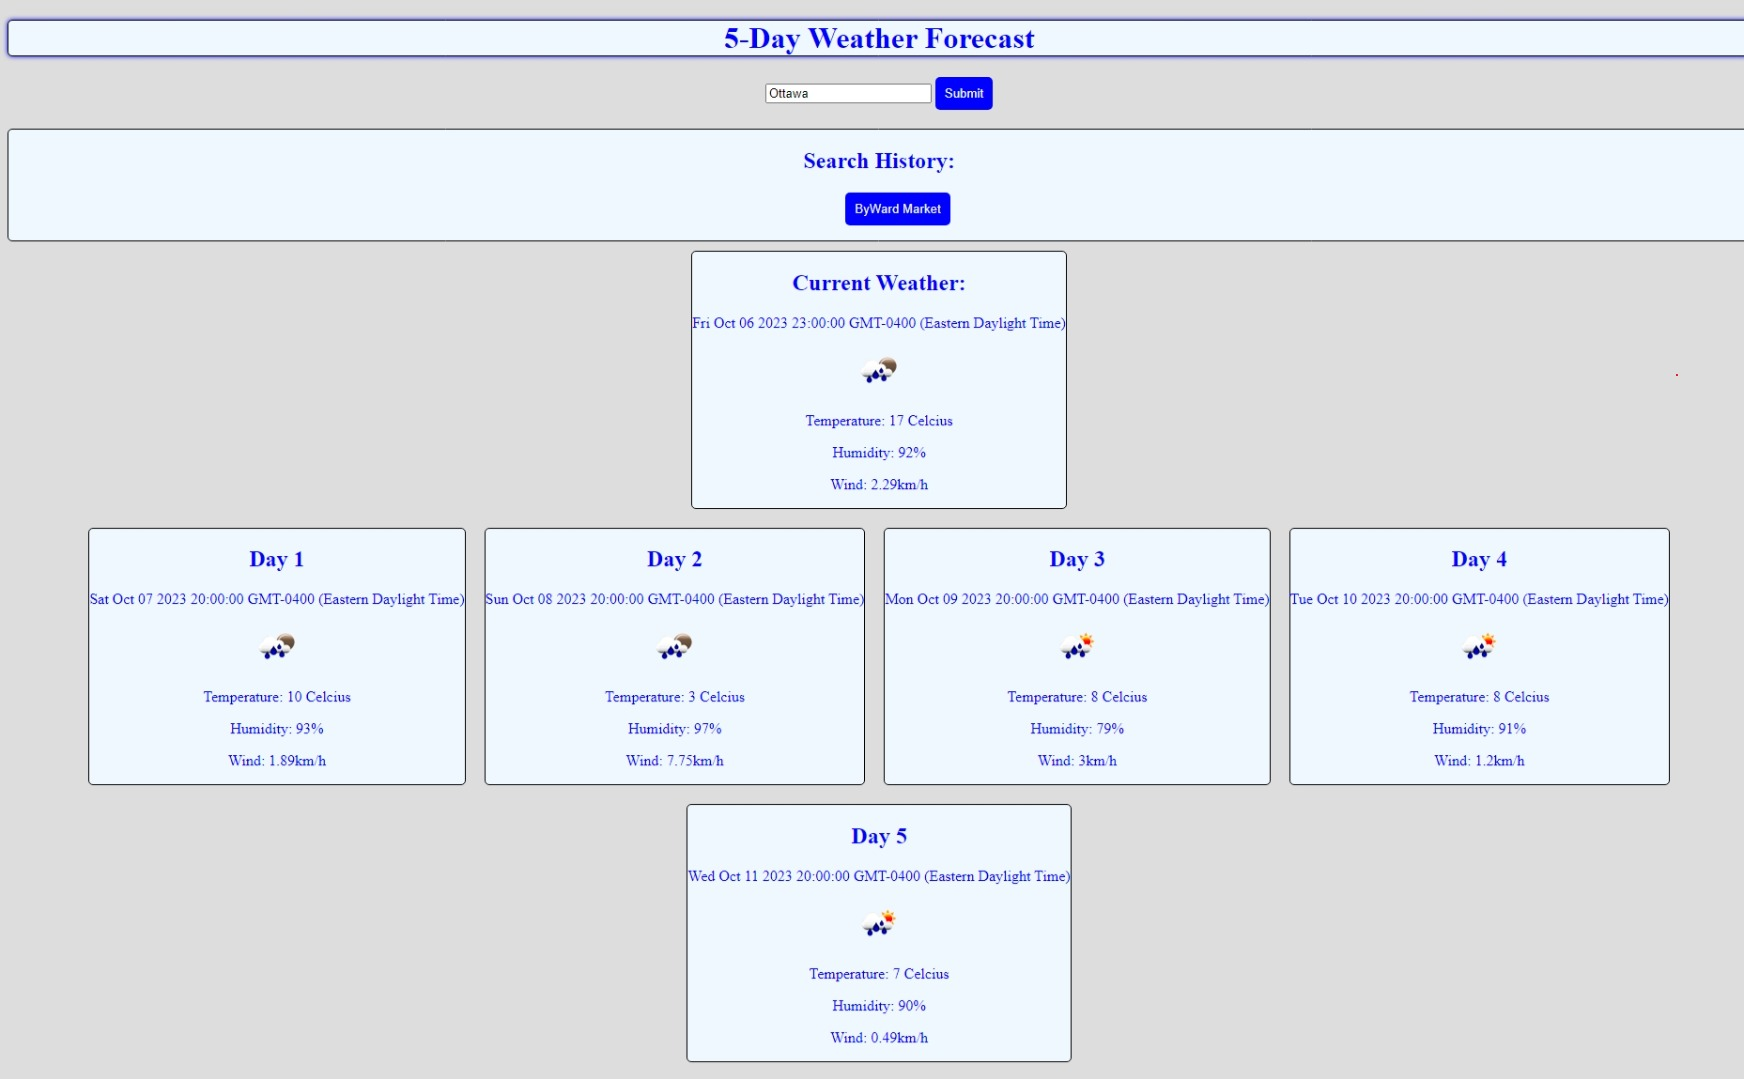
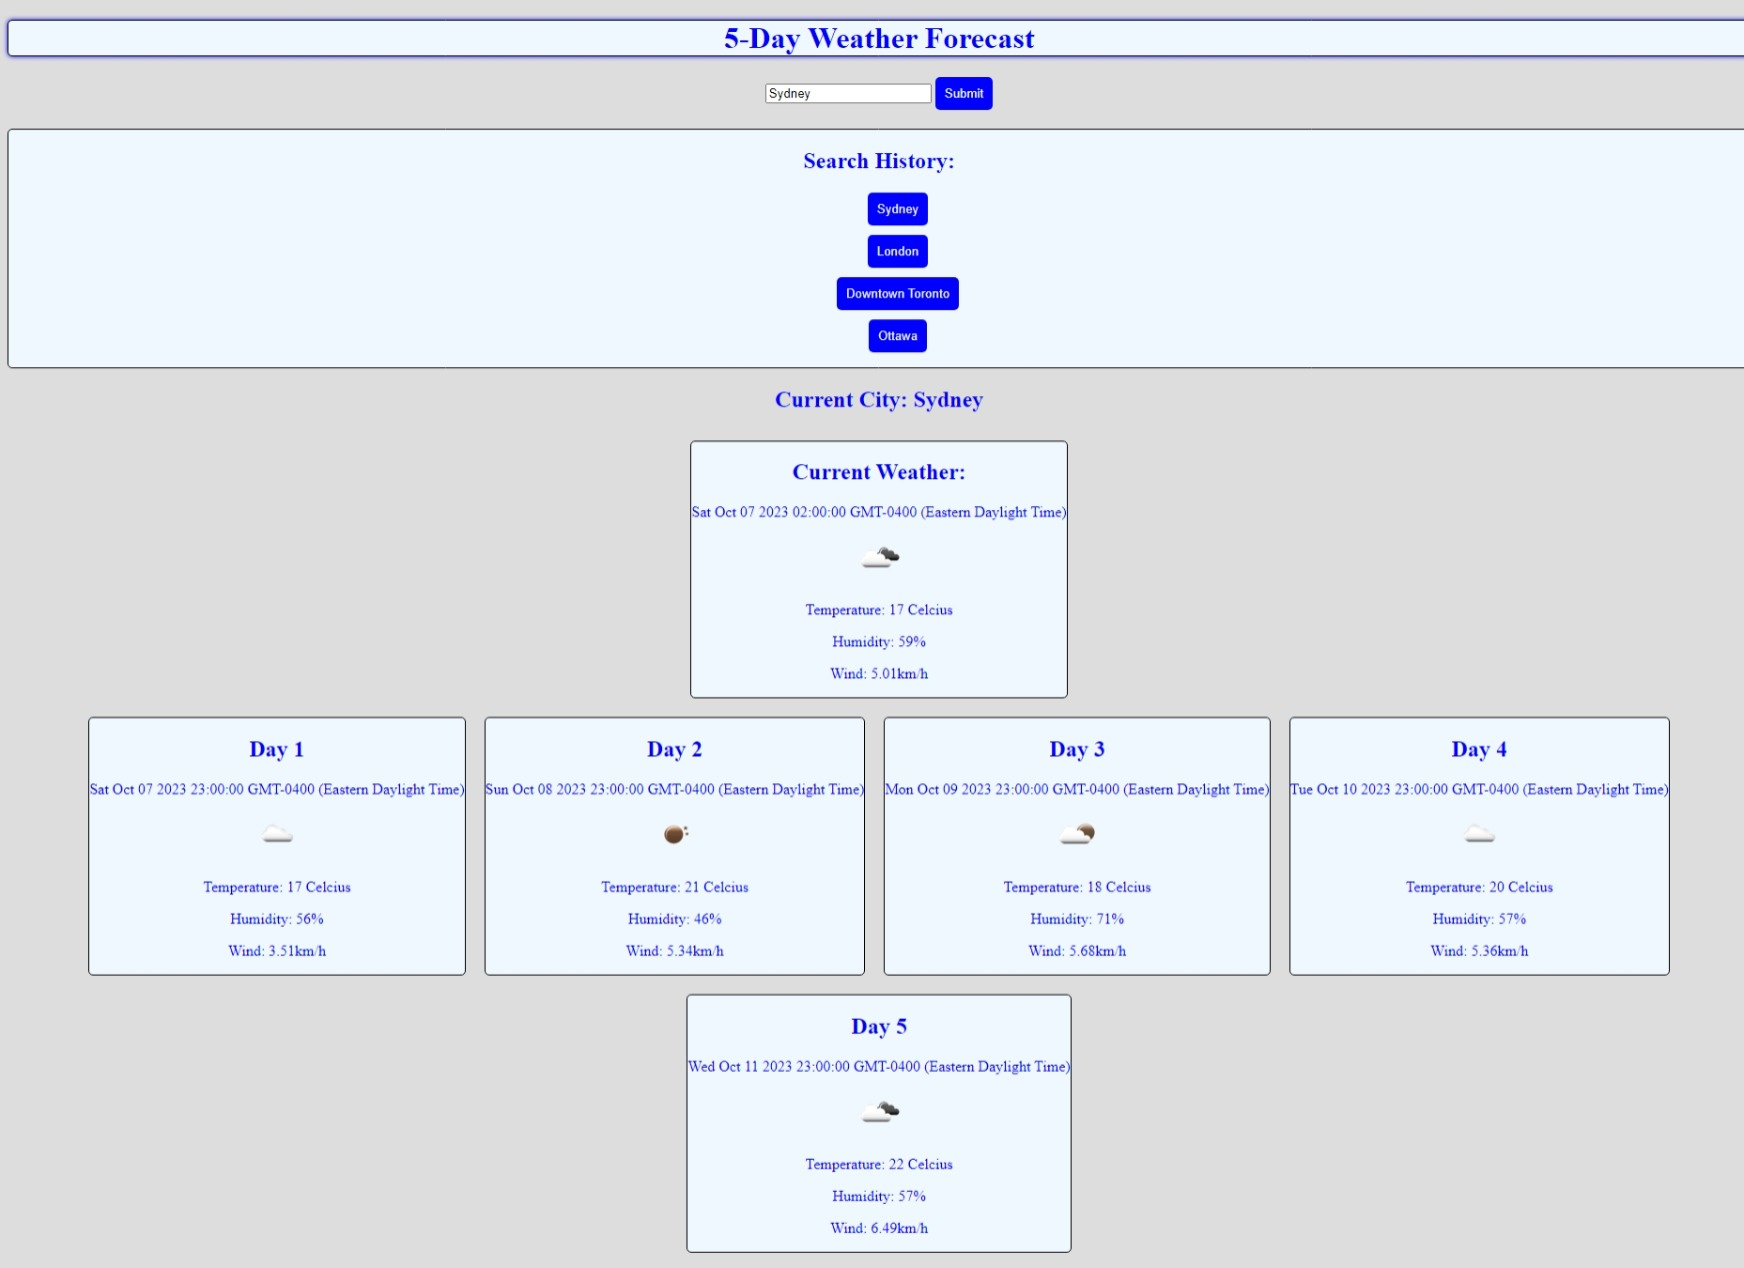
displaying city name and update readme image

Changed region(s): [[0.0, 0.0, 1.0, 1.0]]

diff --git a/index.html b/index.html
@@ -24,12 +24,15 @@
     <!-- WEATHER DISPLAYS -->
     <section id="weatherBox">
 
+        <section>
+            <h2 id="city">Current City: </h2>
+        </section>
+
         <!-- 1 DAY WEATHER CARD -->
         <section class="row">
             <section class="weatherCard container">
                 <h2>Current Weather:</h2>
                 <div class="weather">
-                    <p id="city"></p>
                     <p id="date"></p>
                     <img src="https://openweathermap.org/img/wn/10d@2x.png" id="weatherIcon" alt="Current weather display">
                     <p id="temperature">Temperature: </p>
@@ -46,7 +49,6 @@
             <section class="weatherCard container">
                 <h2>Day 1</h2>
                 <div class="weather">
-                    <p id="city"></p>
                     <p id="date1"></p>
                     <img src="https://openweathermap.org/img/wn/10d@2x.png" id="weatherIcon1" alt="Weather forecast day 1">
                     <p id="temperature1">Tempterature: </p>
@@ -59,7 +61,6 @@
             <section class="weatherCard container">
                 <h2>Day 2</h2>
                 <div class="weather">
-                    <p id="city"></p>
                     <p id="date2"></p>
                     <img src="https://openweathermap.org/img/wn/10d@2x.png" id="weatherIcon2" alt="Weather forecast day 2">
                     <p id="temperature2">Tempterature: </p>
@@ -72,7 +73,6 @@
             <section class="weatherCard container">
                 <h2>Day 3</h2>
                 <div class="weather">
-                    <p id="city"></p>
                     <p id="date3"></p>
                     <img src="https://openweathermap.org/img/wn/10d@2x.png" id="weatherIcon3" alt="Weather forecast day 3">
                     <p id="temperature3">Tempterature: </p>
@@ -85,7 +85,6 @@
             <section class="weatherCard container">
                 <h2>Day 4</h2>
                 <div class="weather">
-                    <p id="city"></p>
                     <p id="date4"></p>
                     <img src="https://openweathermap.org/img/wn/10d@2x.png" id="weatherIcon4" alt="Weather forecast day 4">
                     <p id="temperature4">Tempterature: </p>
@@ -98,7 +97,6 @@
             <section class="weatherCard container">
                 <h2>Day 5</h2>
                 <div class="weather">
-                    <p id="city"></p>
                     <p id="date5"></p>
                     <img src="https://openweathermap.org/img/wn/10d@2x.png" id="weatherIcon5" alt="Weather forecast day 5">
                     <p id="temperature5">Tempterature: </p>

diff --git a/assets/js/script.js b/assets/js/script.js
@@ -1,7 +1,7 @@
 // Element declarations
 var searchInputEl = document.getElementById('search');
 var searchButtonEl = document.getElementById('submit');
-var city = document.getElementById('city');
+var cityEl = document.getElementById('city');
 var searchHistory = document.getElementById('searchHistory');
 var indexList = [0, 7, 15, 23, 31, 39];
 
@@ -63,6 +63,7 @@ function getLocation(city) {
             console.log(data);
             var lat = data[0].lat;
             var lon = data[0].lon;
+            cityEl.textContent = "Current City: " + city;
             getWeather(lat, lon);
         }) 
 };
@@ -158,7 +159,7 @@ function displaySearchHistory() {
         // create button
         var container = document.getElementById(search_history[i]);
         var button = document.createElement("button");
-        button.setAttribute("value", search_history[i]);
+        button.setAttribute("value", "button"+i);
         button.textContent = search_history[i];
         container.appendChild(button);
         // add event listener and functionality to button

diff --git a/README.md b/README.md
@@ -3,8 +3,11 @@
 ## Table of Contents
 
 -[Description](#description)
+
 -[Usage](#usage)
+
 -[Visual](#visual)
+
 -[URLs](#urls)
 
 ## Description
@@ -20,11 +23,6 @@ The user only needs to enter the name of a city into the search bar, then click 
 Fullscreen application:
 
 ![This is an image of the fullscreen webpage](./images/weatherAppFullScreen.jpeg)
-
-
-Half screen application:
-
-![This is an image of the halfscreen webpage](./images/weatherAppHalfScreen.jpeg)
 
 ## URLs
 
